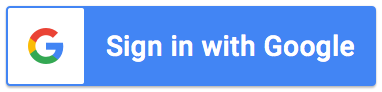
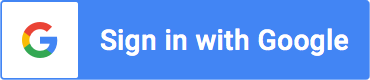
Support arbitrary auth methods

Changed region(s): [[0.0, 0.0, 1.0, 1.0], [0.2676, 0.35, 0.9514, 0.7], [0.0595, 0.275, 0.1784, 0.725]]

diff --git a/server/src/static/templates/auth/login_selector.html b/server/src/static/templates/auth/login_selector.html
@@ -46,10 +46,14 @@
         <div class="container" id="link-form" style="padding-top:60px">
           <div class="row">
             <div class="col-md-8 col-md-offset-2 text-center">
-              <div style="width:100%;display:flex;flex-direction:column">
-                  <a data-test-id="google-signin-button" href="{{ google_auth_url }}">
-                    <img height="60" src="/_images/auth/google_signin_button.png" />
-                  </a>
+              <div style="width:100%;display:flex;flex-direction:column;align-items:center">
+                  <div style="display:flex;flex-wrap:wrap;align-items:center;justify-content:center">
+                    {% for method in login_methods %}
+                      <a style="padding:10px" aria-label="{{ method.label }}" href="{{ method.url }}?{{ redirect_to }}">
+                        <img height="50" src="{{ method.image }}" />
+                      </a>
+                    {% endfor %}
+                  </div>
                   <p style="font-size:1.4rem;padding-top:10px">
                     By signing in, you agree to Trotto's <a href="/_docs/terms" target="_blank">
                     Terms of Service</a> and <a href="/_docs/privacy" target="_blank">Privacy Policy</a>.

diff --git a/server/src/modules/base/tests/handlers_tests.py b/server/src/modules/base/tests/handlers_tests.py
@@ -13,12 +13,20 @@ from testing import TrottoTestCase
 User = get_models('users').User
 
 
+MULTIPLE_LOGIN_METHODS = [{'label': 'Sign in with Google',
+                           'image': '/_images/auth/google_signin_button.png',
+                           'url': '/_/auth/login/google'},
+                          {'label': 'Custom signin',
+                           'image': 'https://mylogin/logo.png',
+                           'url': 'https://mylogin/login'}]
+
+
 class TestHandlers(TrottoTestCase):
 
   blueprints_under_test = [handlers.routes]
 
   def test_login_endpoint__no_upstream_host_header(self):
-    response = self.testapp.get('/_/auth/login',
+    response = self.testapp.get('/_/auth/login/google',
                                 headers={'Host': 'trot.to'})
 
     expected_oauth_redirect_uri = urlencode({'redirect_uri': 'https://trot.to/_/auth/oauth2_callback'})
@@ -27,7 +35,7 @@ class TestHandlers(TrottoTestCase):
     self.assertIn(expected_oauth_redirect_uri, response.headers['Location'])
 
   def test_login_endpoint__upstream_host_header(self):
-    response = self.testapp.get('/_/auth/login',
+    response = self.testapp.get('/_/auth/login/google',
                                 headers={'Host': 'trot.to',
                                          'X-Upstream-Host': 'go.trot.to'})
 
@@ -47,8 +55,42 @@ class TestHandlers(TrottoTestCase):
 
     self.assertEqual(302, response.status_int)
 
+  def test_login_endpoint__single_login_method(self):
+    response = self.testapp.get('/_/auth/login')
+
+    self.assertEqual(302, response.status_int)
+    self.assertEqual(f"http://localhost/_/auth/login/google?{urlencode({'redirect_to': 'http://localhost'})}",
+                     response.headers['Location'])
+
+  def test_login_endpoint__single_login_method__with_redirect_to(self):
+    response = self.testapp.get('/_/auth/login?redirect_to=%2Froadmap')
+
+    self.assertEqual(302, response.status_int)
+    self.assertEqual(f"http://localhost/_/auth/login/google?{urlencode({'redirect_to': 'http://localhost/roadmap'})}",
+                     response.headers['Location'])
+
+  @patch('modules.base.handlers.LOGIN_METHODS', MULTIPLE_LOGIN_METHODS)
+  def test_login_endpoint__multiple_login_methods(self):
+    response = self.testapp.get('/_/auth/login')
+
+    self.assertEqual(200, response.status_int)
+    self.assertIn(f"/_/auth/login/google?{urlencode({'redirect_to': 'http://localhost'})}",
+                  response.text)
+    self.assertIn(f"https://mylogin/login?{urlencode({'redirect_to': 'http://localhost'})}",
+                  response.text)
+
+  @patch('modules.base.handlers.LOGIN_METHODS', MULTIPLE_LOGIN_METHODS)
+  def test_login_endpoint__multiple_login_methods__with_redirect_to(self):
+    response = self.testapp.get('/_/auth/login?redirect_to=%2Froadmap')
+
+    self.assertEqual(200, response.status_int)
+    self.assertIn(f"/_/auth/login/google?{urlencode({'redirect_to': 'http://localhost/roadmap'})}",
+                  response.text)
+    self.assertIn(f"https://mylogin/login?{urlencode({'redirect_to': 'http://localhost/roadmap'})}",
+                  response.text)
+
   @patch('modules.base.handlers.get_config', return_value={'testing': {'secret': 'a_test_secret',
-                                                                        'domains': ['example.com']}})
+                                                                       'domains': ['example.com']}})
   def test_login_via_test_token__no_token(self, _):
     response = self.testapp.get('/_/auth/oauth2_callback')
 
@@ -61,7 +103,7 @@ class TestHandlers(TrottoTestCase):
     self.assertEqual(302, response.status_int)
 
   @patch('modules.base.handlers.get_config', return_value={'testing': {'secret': 'a_test_secret',
-                                                                        'domains': ['example.com']}})
+                                                                       'domains': ['example.com']}})
   def test_login_via_test_token__invalid_token(self, _):
     token = jwt.encode({'email': 'sam@example.com'}, 'some_secret', algorithm='HS256')
 

diff --git a/server/src/modules/base/handlers.py b/server/src/modules/base/handlers.py
@@ -1,5 +1,6 @@
 import jwt
 import logging
+from urllib.parse import urlencode
 
 from flask import Blueprint, abort, redirect, render_template, request, session, url_for
 from flask_login import logout_user
@@ -8,8 +9,14 @@ from oauth2client.client import FlowExchangeError
 
 from modules.base import authentication, errors
 from modules.organizations.utils import get_organization_id_for_email
-from shared_helpers.config import get_config, get_path_to_oauth_secrets
+from shared_helpers.config import get_config, get_path_to_oauth_secrets, get_config_by_key_path
 from shared_helpers import utils
+
+
+LOGIN_METHODS = [{'label': 'Sign in with Google',
+                  'image': '/_images/auth/google_signin_button.png',
+                  'url': '/_/auth/login/google'}
+                 ] + (get_config_by_key_path(['authentication', 'methods']) or [])
 
 
 routes = Blueprint('base', __name__,
@@ -41,20 +48,21 @@ def get_google_login_url(oauth_redirect_uri=None, redirect_to_after_oauth=None):
 
 @routes.route('/_/auth/login')
 def login():
-  redirect_to = request.args.get('redirect_to', None)
+  redirect_to = authentication.get_host_for_request(request)
+  if request.args.get('redirect_to', None):
+    redirect_to += request.args.get('redirect_to', None)
 
-  google_login_url = get_google_login_url(None, redirect_to)
+  error_message = None
+  if request.args.get('e', None):
+    error_message = errors.get_error_message_from_code(request.args.get('e', None))
 
-  error_code = request.args.get('e', None)
+  if error_message or len(LOGIN_METHODS) > 1:
+    return render_template('auth/login_selector.html',
+                           login_methods=LOGIN_METHODS,
+                           redirect_to=urlencode({'redirect_to': redirect_to}),
+                           error_message=error_message)
 
-  if error_code:
-    error_message = errors.get_error_message_from_code(error_code)
-    if error_message:
-      return render_template('auth/login_selector.html',
-                             google_auth_url=google_login_url,
-                             error_message=error_message)
-
-  return redirect(google_login_url)
+  return redirect(f"/_/auth/login/google?{urlencode({'redirect_to': redirect_to})}")
 
 
 @routes.route('/_/auth/logout')
@@ -62,6 +70,11 @@ def logout():
   logout_user()
 
   return redirect('http://localhost:5007/' if request.host.startswith('localhost') else '/')
+
+
+@routes.route('/_/auth/login/google')
+def login_google():
+  return redirect(get_google_login_url(None, request.args.get('redirect_to', None)))
 
 
 def login_via_test_token():
@@ -78,6 +91,13 @@ def login_via_test_token():
   authentication.login('test_token', user_email=payload['user_email'])
 
   return True
+
+
+def _redirect():
+  if session.get('redirect_to_after_oauth', '').startswith(authentication.get_host_for_request(request) + '/'):
+    return redirect(session.get('redirect_to_after_oauth'))
+
+  return redirect('/')
 
 
 @routes.route('/_/auth/oauth2_callback')
@@ -100,14 +120,14 @@ def oauth2_callback():
   except (FlowExchangeError, ValueError) as e:
     logging.warning(e)
     # user declined to auth; move on
-    return redirect(session.get('redirect_to_after_oauth', '/'))
+    return _redirect()
 
   user_email = authentication.get_user_email(credentials)
 
   if user_email:
     authentication.login('google', user_email=user_email)
 
-  return redirect(session.get('redirect_to_after_oauth', '/'))
+  return _redirect()
 
 
 @routes.route('/_/auth/jwt')

diff --git a/server/src/modules/base/authentication.py b/server/src/modules/base/authentication.py
@@ -125,5 +125,5 @@ def get_user_email(oauth_credentials):
 def get_host_for_request(request):
   host = request.headers.get('X-Upstream-Host') or request.host
 
-  return '%s://%s' % ('http' if host.startswith('localhost:') else 'https',
+  return '%s://%s' % ('http' if host == 'localhost' or host.startswith('localhost:') else 'https',
                       host)
